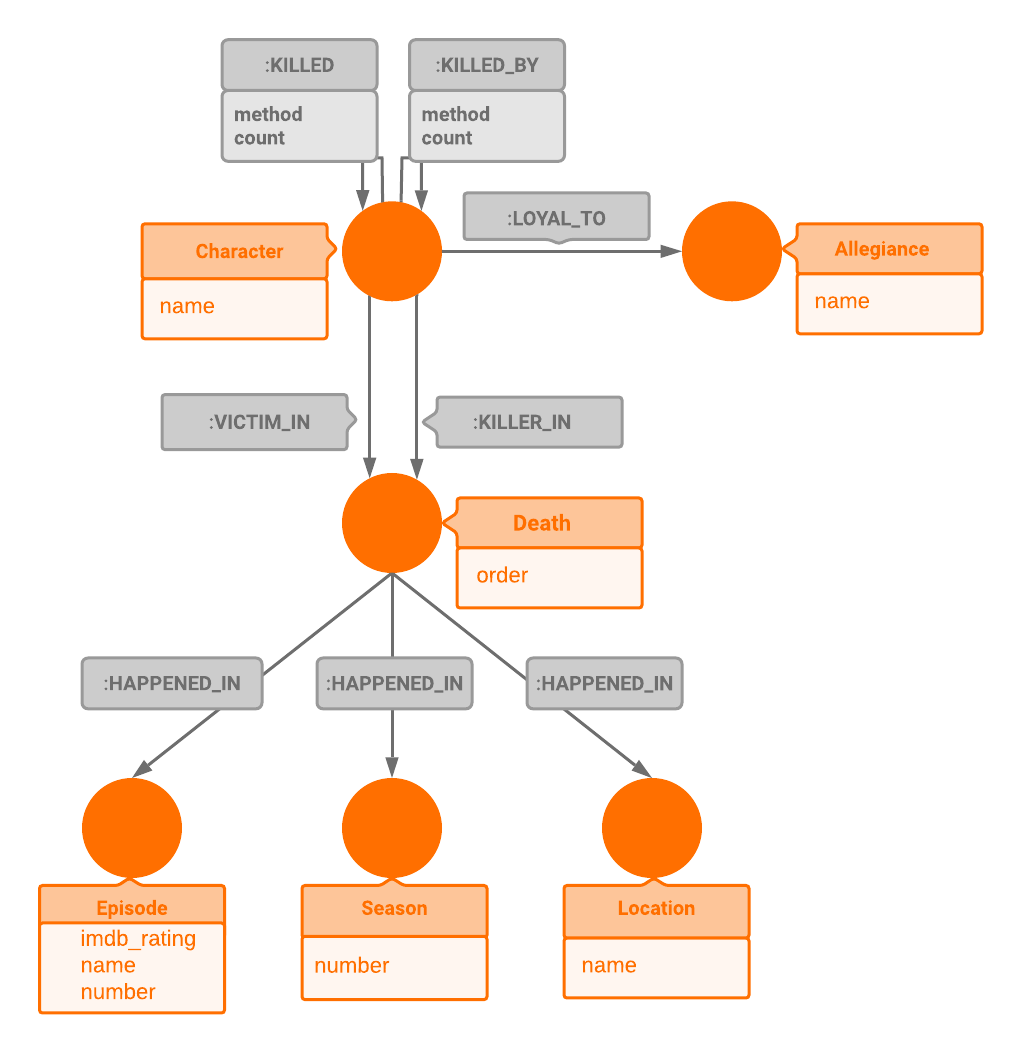
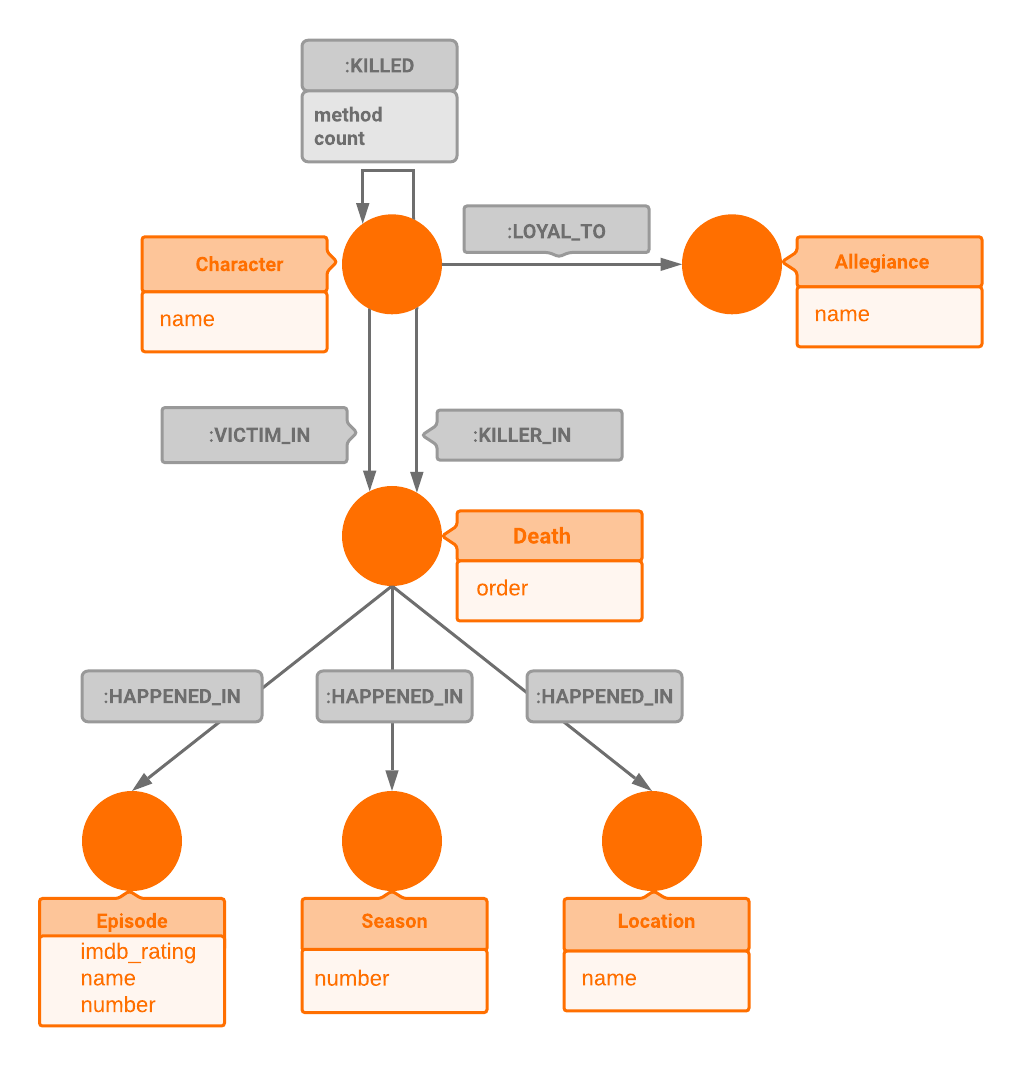
Add more graph examples

diff --git a/products/memgraph/upcoming/tutorials/got-deaths.md b/products/memgraph/upcoming/tutorials/got-deaths.md
@@ -42,15 +42,15 @@ The model consists of the following nodes:
 * a `Character` node has a `name` attribute corresponding to the character's name (e.g. `"Castle Black"`)
 
 Nodes are connected with the following edges:
-* `:KILLED_BY` and `:KILLED` - connect two Character nodes and they have 2 attributes, 
+* `:KILLED` - connect two Character nodes and they have 2 attributes, 
   `method` which says how was the character killed (e.g. `"Knife"`) and `count` attribute representing a
   number of how many of these characters were killed (e.g. if `"Jon Snow"` killed `10` `"Lannister soldiers"` 
-  then on this path `count` would be `10`)
+  then on this edge `count` would be `10`)
 * `:LOYAL_TO` - connects `Character` node with `Allegiance` node representing an allegiance the character is
   loyal to
 * `:VICTIM_IN` and `:KILLER_IN` - connects `Character` node with `Death` node in which death happened 
 * `:HAPPENED_IN` - connects node `Death` with `Episode`, `Season` and `Location` nodes representing details
-  of death
+  of the death
 * `:PART_OF` connects node `Episode` with `Season` node which episode is part of
 
 ![](../data/got-deaths.png)
@@ -157,19 +157,8 @@ RETURN DISTINCT(victim.name) AS victim, COUNT(d) AS kill_count, e.name AS episod
 ORDER BY kill_count DESC
 ```
 
-7) Remember that shocking last episode of the fifth season when they killed Jon Snow and we totally thought
-he was gonna stay dead? Well, let's list all the characters that would survive if he actually stayed dead.
 
-```opencypher
-MATCH (jon:Character {name: 'Jon Snow'})-[:KILLED]->(victim:Character)
-MATCH (jon)-[:VICTIM_IN]->(jon_death:Death)
-MATCH (jon)-[:KILLER_IN]->(victim_death:Death)<-[:VICTIM_IN]-(victim)
-WHERE victim_death.order>jon_death.order
-RETURN DISTINCT(victim.name) AS victim, COUNT(victim_death) AS kill_count
-ORDER BY kill_count DESC
-```
-
-8) Houses or allegiances are one of the main aspects of Westeros. Some houses killed more characters
+7) Houses or allegiances are one of the main aspects of Westeros. Some houses killed more characters
 than others, but that doesn't matter in the end, what matters is efficiency. Let's list the allegiances with
 the best Kill/Death Ratios or KDR for short. Here we came across one additional problem. If an allegiance had more 
 deaths than kills, the KDR would be 0. This can easily be fixed with the `toFloat()` function.
@@ -182,7 +171,7 @@ RETURN a.name AS allegiance_name, SUM(kill.count) AS kills, deaths, ROUND(100 *(
 ORDER BY KDR DESC;
 ```
 
-9) One of the best-rated episodes, Battle of the Bastards, showed us a fight between two houses: Stark and Bolton.
+8) One of the best-rated episodes, Battle of the Bastards, showed us a fight between two houses: Stark and Bolton.
 Let's see which one had more casualties.
 
 ```opencypher
@@ -193,7 +182,7 @@ ORDER BY death_count DESC
 LIMIT 2;
 ```
 
-10) Who do you think was the biggest traitor in terms of killing in its own allegiance? Well, let's check it out!
+9) Who do you think was the biggest traitor in terms of killing in its own allegiance? Well, let's check it out!
 
 ```opencypher
 MATCH (killer:Character)-[:KILLED]->(victim:Character)
@@ -202,14 +191,37 @@ RETURN killer.name AS traitor, COUNT(victim) AS kill_count
 ORDER BY kill_count DESC
 ```
 
-11) One of the biggest features of Memgraph is drawing the graphs of queries we execute. Let's visualize all the
+10) One of the biggest features of Memgraph is drawing the graphs of queries we execute. Let's visualize all the
 Loyalties with Characters. Execute the following query and head out to the `GRAPH` tab.
 
 ```opencypher
 MATCH (c:Character)-[i:LOYAL_TO]-(l) RETURN c,i,l;
 ```
 
-12) Let's see how it looks like if we want to visualize Jon Snow kills with their locations.
+11) Remember that shocking last episode of the fifth season when they killed Jon Snow and we totally thought
+he was gonna stay dead? Well, let's list all the characters that would survive if he actually stayed dead.
+
+```opencypher
+MATCH (jon:Character {name: 'Jon Snow'})-[:KILLED]->(victim:Character)
+MATCH (jon)-[:VICTIM_IN]->(jon_death:Death)
+MATCH (jon)-[:KILLER_IN]->(victim_death:Death)<-[:VICTIM_IN]-(victim)
+WHERE victim_death.order>jon_death.order
+RETURN DISTINCT(victim.name) AS victim, COUNT(victim_death) AS kill_count
+ORDER BY kill_count DESC
+```
+
+12) If we want to see the above example in graph form, we have to add some modifications to
+the query, such as saving paths to variables that could be then written in `RETURN`.
+
+```opencypher
+MATCH (jon:Character {name: 'Jon Snow'})-[:KILLED]->(victim:Character)
+MATCH (jon)-[:VICTIM_IN]->(jon_death:Death)
+MATCH (jon)-[killed:KILLER_IN]->(victim_death:Death)<-[died:VICTIM_IN]-(victim)
+WHERE victim_death.order > jon_death.order
+RETURN jon, killed, victim_death, died, victim;
+```
+
+13) Let's see how it looks like if we want to visualize all of Jon Snow kills with their locations.
 
 ```opencypher
 MATCH (jon:Character {name: 'Jon Snow'})-[:KILLED]->(victim:Character)
@@ -218,7 +230,24 @@ MATCH (death)-[death_to_location:HAPPENED_IN]->(location:Location)
 RETURN victim,victim_to_death,death,death_to_location,location
 ```
 
-13) Memgraph supports graph algorithms as well. Let's use Dijkstra's shortest path algorithm to show the most
+14) Who do you think was the biggest traitor in terms of killing in its own allegiance? Well, let's check it out!
+
+```opencypher
+MATCH (killer:Character)-[:KILLED]->(victim:Character)
+MATCH (killer)-[:LOYAL_TO]->(a:Allegiance)<-[:LOYAL_TO]-(victim)
+RETURN killer.name AS traitor, COUNT(victim) AS kill_count
+ORDER BY kill_count DESC
+```
+
+15) To visualize the last example, we have to add paths between nodes in the result. 
+
+```opencypher
+MATCH (killer:Character)-[killed:KILLED]->(victim:Character)
+MATCH (killer)-[:LOYAL_TO]->(allegiance:Allegiance)<-[loyal_to:LOYAL_TO]-(victim)
+RETURN killer, killed, victim, loyal_to, allegiance;
+```
+
+16) Memgraph supports graph algorithms as well. Let's use Dijkstra's shortest path algorithm to show the most
 gruesome path of kills. An example kill path is: `Jon Snow` killed `5` `Lannister Soldiers` and they killed
 `10` `Stark soldiers` with total `kill_count` of `15`.
 
